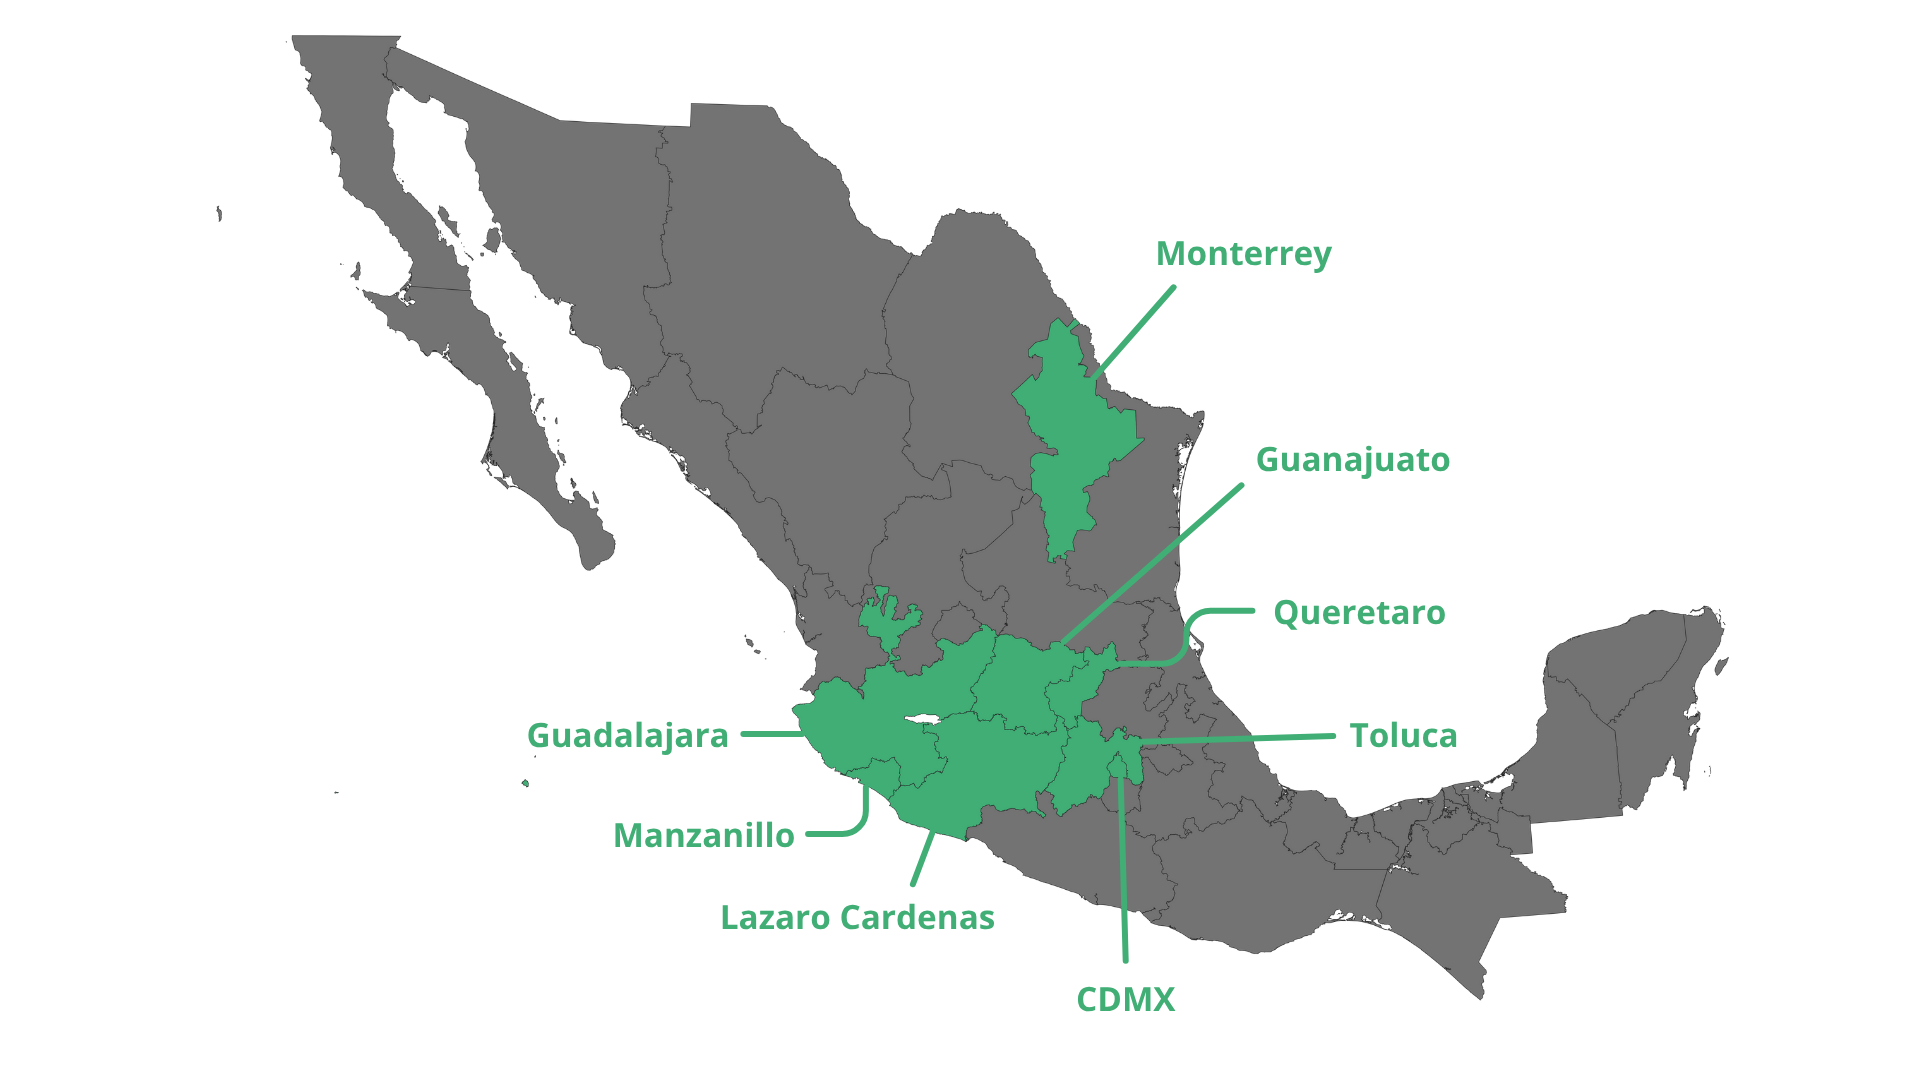
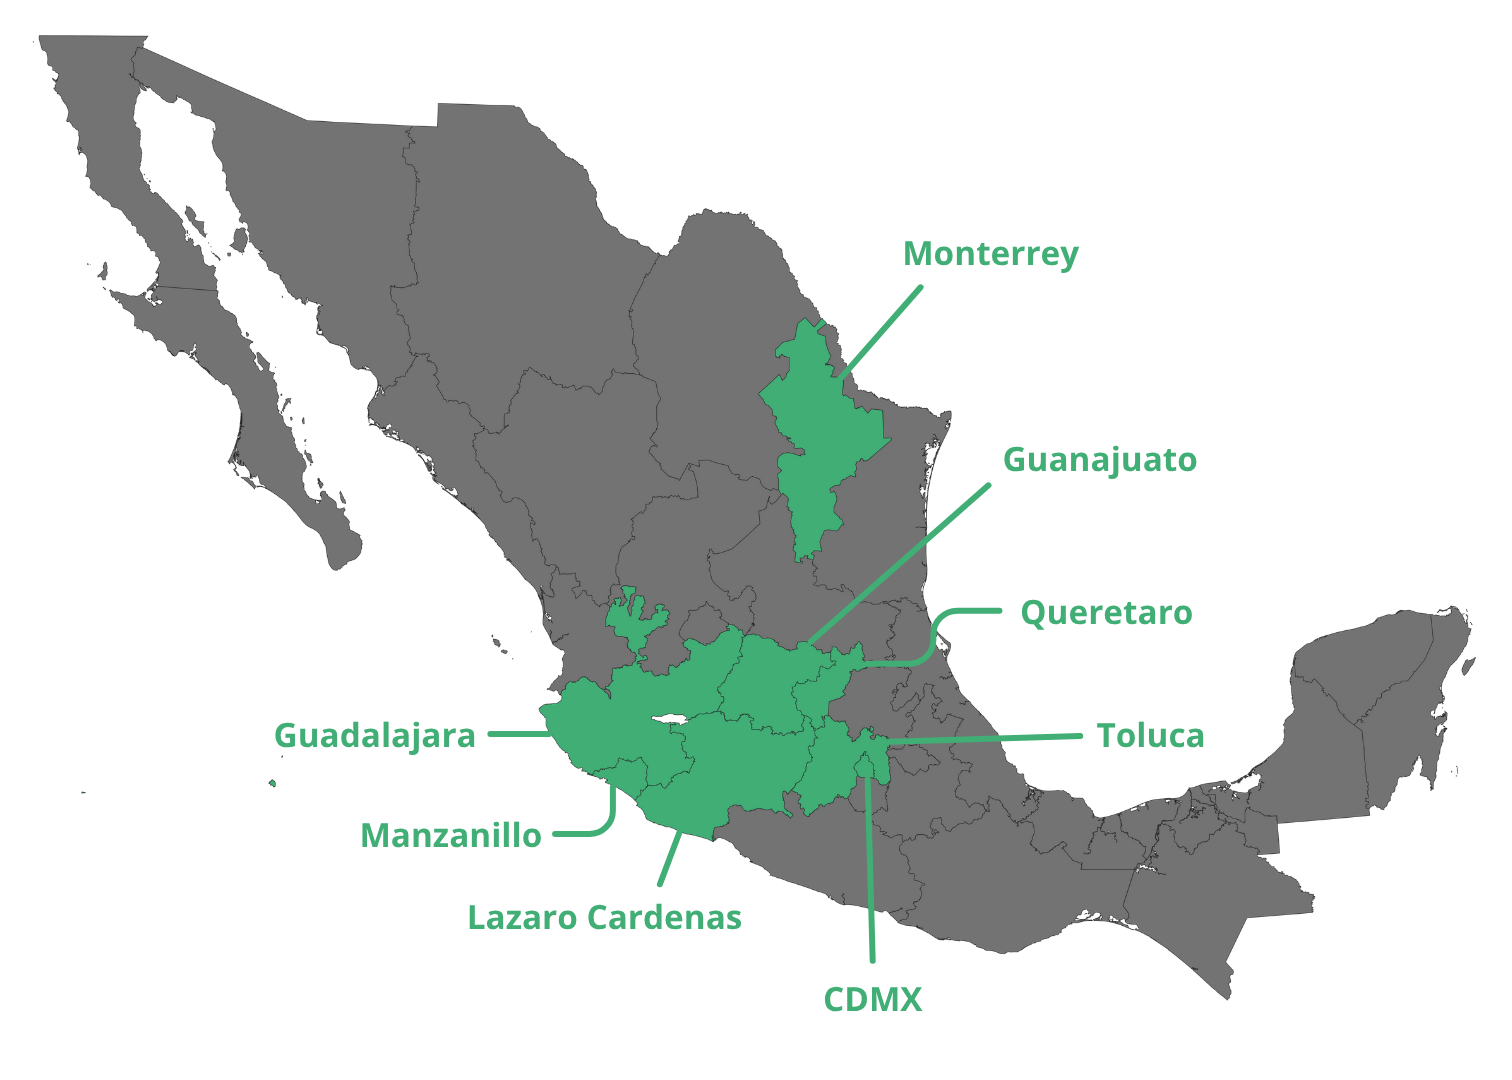
responsive

Changed region(s): [[0.0311, 0.0306, 0.7771, 0.9472], [0.6217, 0.55, 0.9947, 0.9167], [0.6528, 0.55, 0.8082, 0.5806]]

diff --git a/app/components/styles/Mapa.module.css b/app/components/styles/Mapa.module.css
@@ -1,6 +1,6 @@
 .container {
-  display: flex;
-  align-items: flex-start;
+  display: grid;
+  grid-template-columns: repeat(2, minmax(0, 1fr));
   gap: 3rem;
   max-width: 1200px;
   margin: 0 auto;
@@ -8,7 +8,6 @@
 }
 
 .imageContainer {
-  flex: 1;
   min-width: 300px;
   align-items: center; /* Centra la imagen verticalmente dentro de su contenedor */
   justify-content: center; /* Centra la imagen horizontalmente dentro de su contenedor */
@@ -16,19 +15,12 @@
 
 .image {
   width: 100%;
-  max-width: 500px;
-  height: 350px; /* Altura fija para controlar el recorte */
-  border-radius: 8px;
-  object-fit: cover; /* Esto recorta la imagen manteniendo proporciones */
-  object-position: center 15%; /* Ajusta el recorte vertical: 0% top, 100% bottom */
+  height: 370px; /* Altura fija para controlar el recorte */
+  justify-content: center;
 }
 
 .textContainer {
-  flex: 1;
-  display: flex;
-  flex-direction: column;
-  align-items: flex-start;
-  justify-content: flex-start;
+  display: grid;
 }
 
 .heading {
@@ -37,6 +29,7 @@
   font-weight: 700;
   color: #0c4b45;
   width: 100%;
+  text-align: center;
 }
 
 .text {
@@ -45,18 +38,19 @@
   line-height: 1.6;
   color: #0c4b45;
   white-space: pre-line;
+  text-align: center;
 }
 
-.ciudadesWrapper {
+.ciudadesContainer {
+  display: grid;
   width: 100%;
-  display: flex;
-  justify-content: flex-end;
   padding-top: 20px;
+  justify-content: center;
 }
 
 .ciudadesList {
   display: grid;
-  grid-template-columns: repeat(3, 1fr);
+  grid-template-columns: repeat(2, 1fr);
   gap: 0.8rem;
   list-style: none;
   padding: 0;
@@ -93,7 +87,8 @@
 /* Responsive */
 @media (max-width: 768px) {
   .container {
-    flex-direction: column;
+    display: grid;
+    grid-template-columns: 1fr;
     padding: 1rem;
     gap: 1.5rem;
   }
@@ -101,13 +96,37 @@
   .imageContainer {
     min-width: 100%;
     margin: 0;
+    display: grid;
+    justify-content: center;
+    align-items: center;
+  }
+  .ciudadesContainer {
+    display: grid;
+    width: 100%;
+    padding-top: 20px;
+    justify-content: center;
+  }
+  .heading {
+    justify-content: center;
+  }
+  .text {
     display: flex;
     justify-content: center;
     align-items: center;
   }
-
   .heading {
     font-size: 1.5rem;
     margin-bottom: 1rem;
+  }
+
+  .ciudadesList {
+    display: grid;
+    grid-template-columns: repeat(3, 1fr);
+    justify-content: center;
+    gap: 0.8rem;
+    list-style: none;
+    padding: 0;
+    margin: 0;
+    max-width: 500px;
   }
 }

diff --git a/app/nosotros/Nosotros.module.css b/app/nosotros/Nosotros.module.css
@@ -46,7 +46,7 @@
 
 .cartasvolteables {
   display: grid;
-  grid-template-columns: repeat(4, 1fr);
+  grid-template-columns: repeat(4, minmax(1, 1fr));
   gap: 1.5rem;
   margin-bottom: 2rem;
 }
@@ -169,8 +169,14 @@
 
   .cartasvolteables {
     display: grid;
-    grid-template-columns: repeat(2, 1fr);
+    grid-template-columns: repeat(1, 1fr);
     gap: 1.5rem;
+    justify-content: center;
     margin-bottom: 2rem;
+  }
+
+  .containerCartas {
+    display: grid;
+    justify-content: center;
   }
 }

diff --git a/app/components/Mapa.js b/app/components/Mapa.js
@@ -103,7 +103,7 @@ export default function Mapa() {
           comerciales del país:
         </p>
         <motion.div
-          className={styles.ciudadesWrapper}
+          className={styles.ciudadesContainer}
           initial="hidden"
           animate={isVisible ? "visible" : "hidden"}
           variants={contenedorListaAnimacion}

diff --git a/app/nosotros/page.js b/app/nosotros/page.js
@@ -44,7 +44,7 @@ export default function QuienesSomos() {
             </p>
           </div>
         </div>
-        <div>
+        <div className={styles.containerCartas}>
           <h2 className={styles.sectionTitle}>Nuestros Valores</h2>
           <div className={styles.cartasvolteables}>
             <CartaVolteable

diff --git a/app/components/styles/Imagen.module.css b/app/components/styles/Imagen.module.css
@@ -1,5 +1,5 @@
 .gallery {
-  padding: 4rem 0;
+  padding: 3rem;
   background-color: #fff;
   width: 100%;
 }
@@ -164,7 +164,7 @@
   .descriptionItem {
     align-items: center;
   }
-  
+
   .checkIcon {
     margin-top: 2px;
   }
